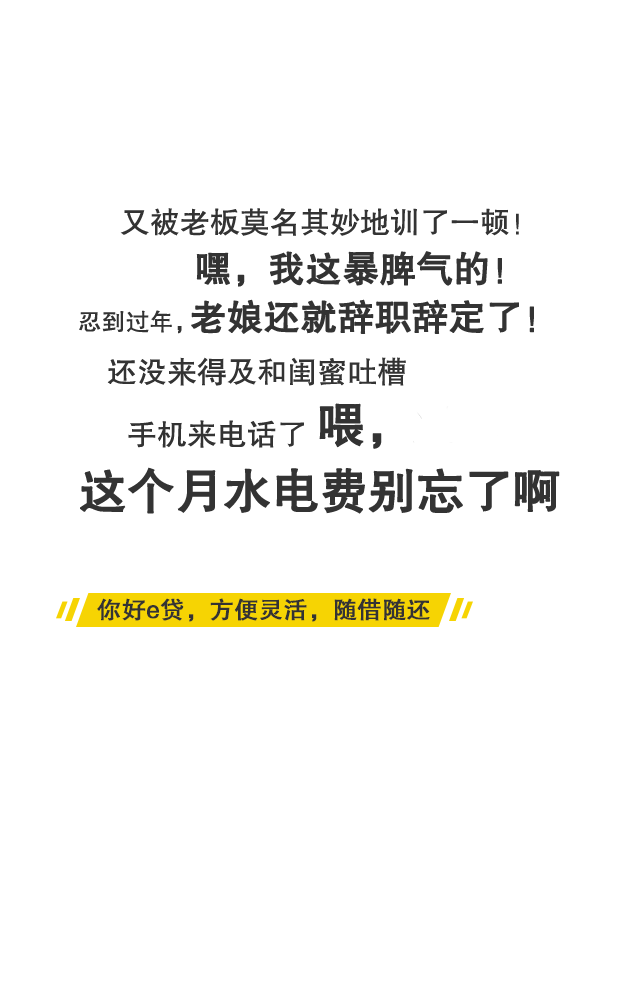
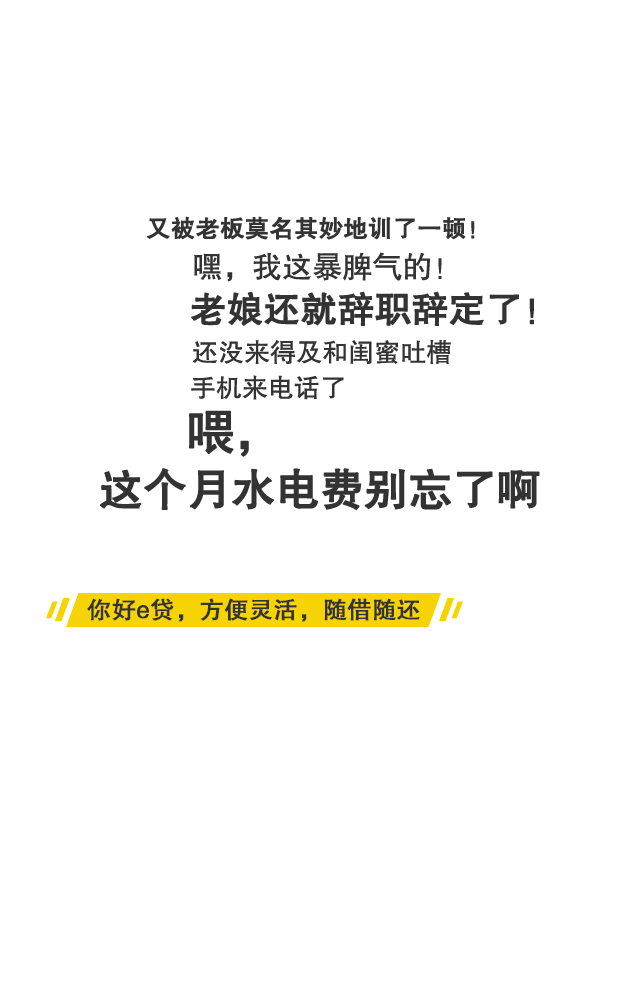
2.0

Changed region(s): [[0.125, 0.1845, 0.875, 0.5228], [0.0625, 0.5843, 0.75, 0.6458]]

diff --git a/addons/create_img/template/mobile/indexx.html b/addons/create_img/template/mobile/indexx.html
@@ -88,7 +88,6 @@
     </script>
 {/if}
     {if $op == 'page2'}
-    {template 'wxsdk'}
     <!--生成页-->
     <div class="page2" id="page2" style="display: block">
         <div class="cont_box">
@@ -113,11 +112,14 @@
             </div>
         </div>
     </div>
-
+    {template 'wxsdk'}
     <script>
         $(function(){
             $('.realize').click(function(){
                 $('.page4').show();
+            });
+            $('.page4').click(function(){
+                $('.page4').hide();
             });
             $('#again').click(function(){
                 window.location.href="{php echo $this->createMobileUrl('indexx')}";
@@ -156,43 +158,29 @@
     {/if}
     <!--分享页-->
     {if $op == 'page3'}
-    {template 'wxsdk'}
     <div class="page3" id="page3">
-        <div class="logo_box">
-            <div><img src="{S_URL}/img/logo.png"></div>
-            <div><img src="{S_URL}/img/icon.png"></div>
-        </div>
-        <div id="save2_box" class="save2_box">
-            <!--分享页显示的title-->
-            <div id="shareTitle" class="shareTitle"><span id="name">{$_GPC['name']}</span>年底的烦恼是</div>
-        </div>
-
         <div class="cont_box">
             <div class="bg_area" style="width: 90%;margin: 0 auto">
                 <img src="" class="show_img" >
             </div>
-            <!--<div class="bg_area"><img src="{S_URL}/img/context.png"></div>
-            <div class="cont_area">
-                 &lt;!&ndash;男1&ndash;&gt;
-                 <div class="nan1_box">
-                     &lt;!&ndash;<span id="cont-name">XXX</span>&ndash;&gt;
-                      <div><img src="{S_URL}/img/message-m1.png"></div>
-                 </div>
-            </div>-->
         </div>
         <div class="page3_btn" id="page3_btn">
             <!--第三页显示的按钮-->
-            <a class="play" id="play" ><img src="{S_URL}/img/play-btn.png"></a>
+            <a class="play" id="play"><img src="{S_URL}/img/play-btn.png"></a>
         </div>
-        <div class="know_box" id="know_box">
+        <div class="know_box" id="know_boxId">
             <!--第三页显示的按钮-->
-            <a class="about" id="about"><img src="{S_URL}/img/about.png"></a>
+            <a class="about" id="about" onclick=""><img src="{S_URL}/img/about.png"></a>
         </div>
     </div>
+    {template 'wxsdk'}
     <script>
         $(function(){
             $('.about').click(function(){
                 $('.page4').show();
+            });
+            $('.page4').click(function(){
+                $('.page4').hide();
             });
             src = "{php echo $this->createMobileUrl('ShowImg',array('name'=>$_GPC['name'],'sex'=>$_GPC['sex'],'key'=>$_GPC['key']))}";
             $('.show_img').attr('src',src);

diff --git a/addons/create_img/site.php b/addons/create_img/site.php
@@ -6,7 +6,8 @@
  * @url 
  */
 defined('IN_IA') or exit('Access Denied');
-define('S_URL','http://www.vivawjw.com/addons/'.$_GET['m'].'/template/mobile');
+//define('S_URL','http://'. $_SERVER['HTTP_HOST'].'/pros/addons/'.$_GET['m'].'/template/mobile');
+define('S_URL', 'http://'. $_SERVER['HTTP_HOST'].'/addons/'.$_GET['m'].'/template/mobile');
 class Create_imgModuleSite extends WeModuleSite {
     /**
      * 男用模板
@@ -50,29 +51,29 @@ class Create_imgModuleSite extends WeModuleSite {
     protected $female = array(
         '0' => array(
             'file' => 'female1',
-            'x_axis' => 380,
-            'y_line' => 282,
+            'x_axis' => 260,
+            'y_line' =>290,
             'w' => 150,
             'h' => 50
         ),
         '1' => array(
             'file' => 'female2',
-            'x_axis' => 160,
-            'y_line' => 280,
+            'x_axis' => 140,
+            'y_line' => 275,
             'w' => 150,
             'h' => 45
         ),
         '2' => array(
             'file' => 'female3',
-            'x_axis' => 345,
+            'x_axis' => 330,
             'y_line' => 230,
             'w' => 88,
             'h' => 40
         ),
         '3' => array(
             'file' => 'female4',
-            'x_axis' => 270,
-            'y_line' => 273,
+            'x_axis' => 280,
+            'y_line' => 280,
             'w' => 250,
             'h' => 50
         ),
@@ -85,8 +86,8 @@ class Create_imgModuleSite extends WeModuleSite {
     protected $global = array(
         '0' => array(
             'file' => 'global1',
-            'x_axis' => 410,
-            'y_line' => 108,
+            'x_axis' => 430,
+            'y_line' => 112,
             'w' => 130,
             'h' => 32
         ),
@@ -106,22 +107,22 @@ class Create_imgModuleSite extends WeModuleSite {
         ),
         '3' => array(
             'file' => 'global4',
-            'x_axis' => 300,
-            'y_line' => 175,
+            'x_axis' => 130,
+            'y_line' => 195,
             'w' => 100,
             'h' => 42
         ),
         '4' => array(
             'file' => 'global5',
-            'x_axis' => 225,
-            'y_line' => 298,
+            'x_axis' => 100,
+            'y_line' => 263,
             'w' => 120,
             'h' => 36
         ),
         '5' => array(
             'file' => 'global6',
-            'x_axis' => 290,
-            'y_line' => 273,
+            'x_axis' => 280,
+            'y_line' => 285,
             'w' => 105,
             'h' => 50
         ),
@@ -139,23 +140,23 @@ class Create_imgModuleSite extends WeModuleSite {
             $key = $_GPC['key'];
         }
         include $this->template('indexx');
-
-
 	}
 	public function doMobileShowImg(){
         global $_W,$_GPC;
         $op = $_GPC['op'];
         $key = $_GPC['key'];
         $sex = $_GPC['sex'];
+        //设置没张模板名字位置
+//        $key = 8;
+//        $sex = 'female';
         if ($sex == 'meale'){
             $file = array_merge($this->male,$this->global);
         }elseif ($sex == 'female'){
             $file = array_merge($this->female,$this->global);
         }
-        //$key =array_rand($file);
         $file = $file[$key];
-        //var_dump($sex);
-        $name = $_GPC['name'];
+        $name = trim($_GPC['name']);
+
         $src_path = dirname(__FILE__) . '/template/resource/bgimg/'. $file['file'].'.png';
         $this->createImg($name,$src_path,$file['x_axis'], $file['y_line'], $file['w'], $file['h']);
         if ($op = 'page2'){
